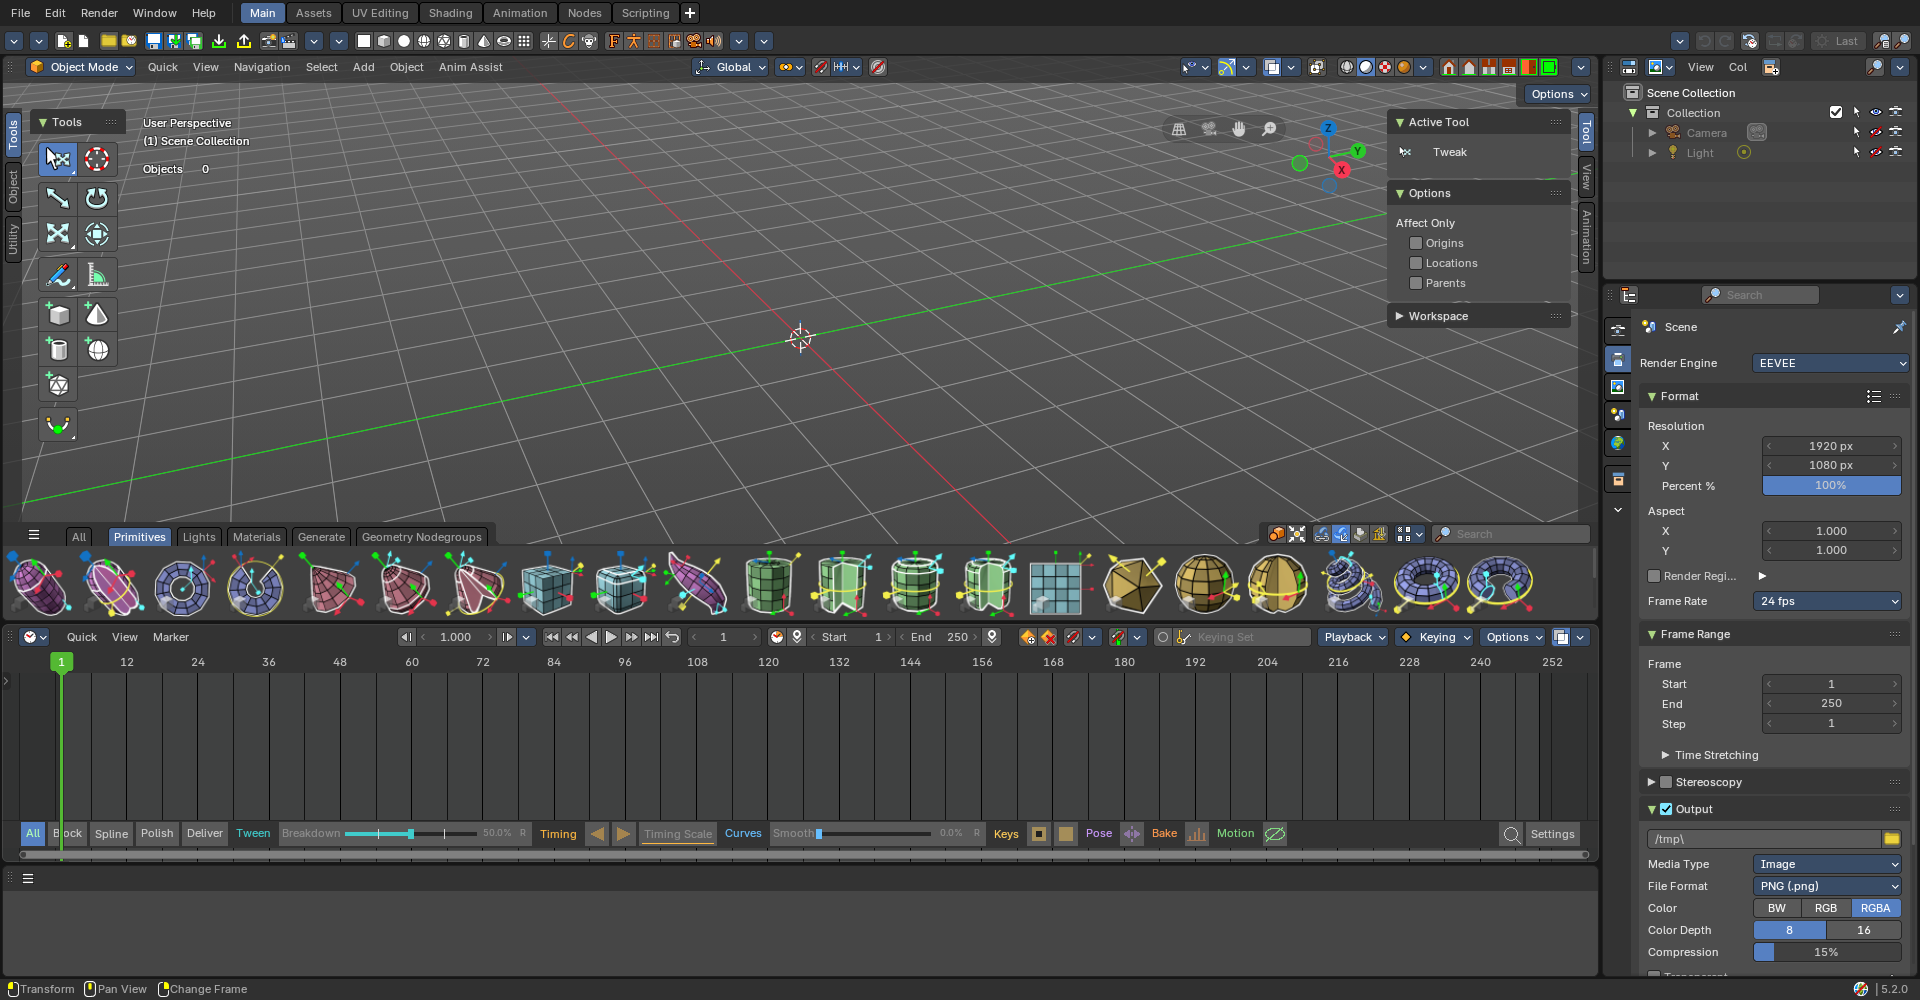
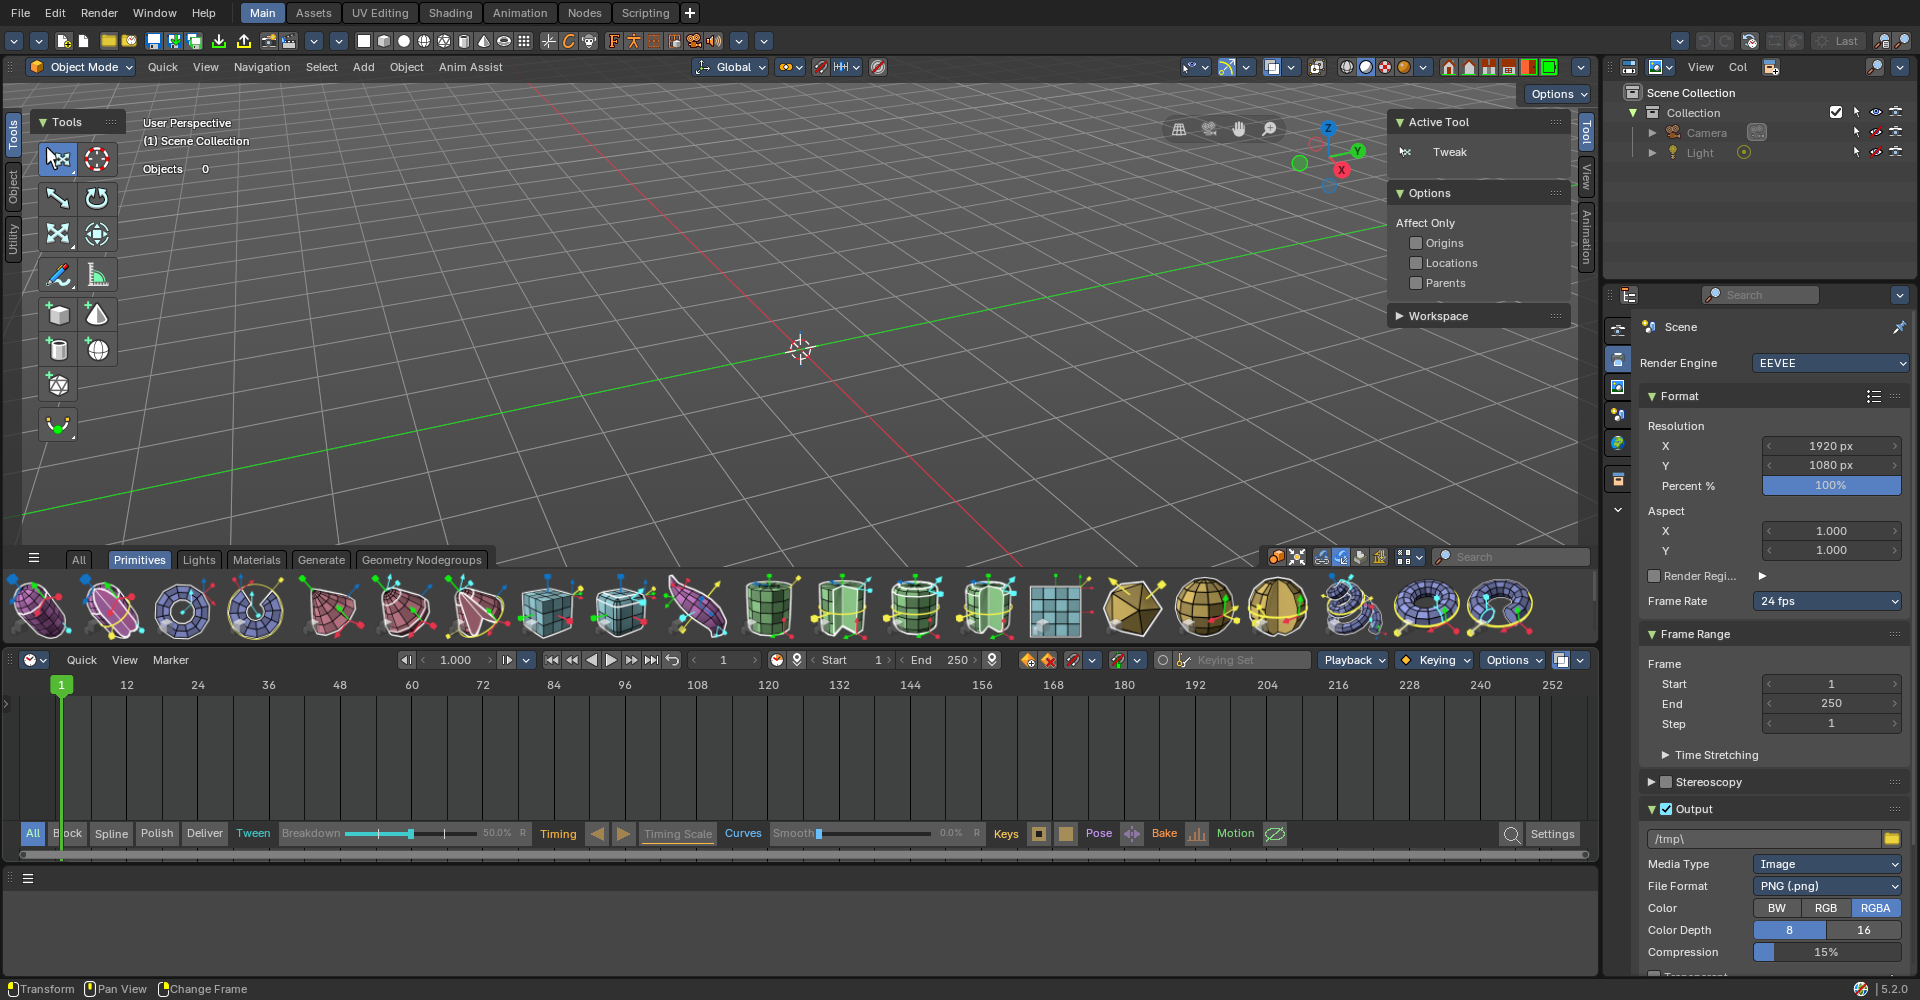
fix(anim-assist): a Find pin refreshes an open Toolbar Settings
Without it, the panel kept a stale list and its next edit undid the pin.

diff --git a/docs/anim_assist/plans/2026-10-17-stage-toolsets/settings_live_check.py b/docs/anim_assist/plans/2026-10-17-stage-toolsets/settings_live_check.py
@@ -112,6 +112,19 @@ def plan():
     yield (lambda: check("Hiding a tool updates the Timeline row while the dialog is open",
                          dialog() is not None and "RANGE" not in row_keys() and "RANGE" not in stored_block())), 0.2
 
+    def pin_from_find():
+        with bpy.context.temp_override(window=window(), area=timeline(), region=region()):
+            bpy.ops.animassist.timeline_pin(action="BAKE_STEP")
+    yield pin_from_find, 0.6
+    yield (lambda: check("A pin made in Find shows in the open Toolbar Settings",
+                         next(e for e in dialog().entries if e.action == "BAKE_STEP").mode != "HIDDEN")), 0.2
+
+    def later_edit():
+        with bpy.context.temp_override(window=window()):
+            next(e for e in dialog().entries if e.action == "GROW_BOTH").mode = "BUTTON"
+    yield later_edit, 0.6
+    yield (lambda: check("A later Toolbar Settings edit keeps the pin", "BAKE_STEP" in stored_block())), 0.2
+
     # Real input inside the panel. It opens under the pointer at the Timeline's centre, so at
     # 1920x1000 the Row dropdown is at (1300, 838) and, on the Spline row, the Timing header
     # at (946, 703) (window coordinates, origin bottom-left).

diff --git a/anim_assist/ui/timeline_strip.py b/anim_assist/ui/timeline_strip.py
@@ -404,7 +404,7 @@ class ANIMASSIST_OT_timeline_pin(bpy.types.Operator):
             return {"CANCELLED"}
         from . import timeline_config as model
         from ..prefs import timeline_record
-        from .timeline_settings import write
+        from .timeline_settings import write, editor, sync_editor
         from .timeline_overlay import current_stage
         data=timeline_record(prefs)
         stage=current_stage(context)
@@ -412,7 +412,10 @@ class ANIMASSIST_OT_timeline_pin(bpy.types.Operator):
         visible=model.stage_view(data['active'],target)[1][self.action]['mode']!='HIDDEN'
         mode='HIDDEN' if visible else ('POPOUT' if self.action in model.SLIDERS else 'BUTTON')
         model.set_stage_tool(data,target,self.action,mode=mode)
-        try: write(context,data)
+        # An open Toolbar Settings shows the pin too, so its next edit cannot undo it.
+        try:
+            if editor(context): sync_editor(context,data)
+            else: write(context,data)
         except ValueError as exc:
             self.report({'WARNING'},str(exc)); return {'CANCELLED'}
         if target=='ALL':

diff --git a/docs/anim_assist/releases/12.10.0/qualification.md b/docs/anim_assist/releases/12.10.0/qualification.md
@@ -4,14 +4,14 @@ Host: stock Bforartists 5.2.0, Blender 5.3.0 Alpha base, build `0a1ca45552db`. C
 
 ## Package
 
[2 lines of base64/hex data omitted]
 
 ## Checks on the exact ZIP contents
 
 | Check | Result |
 |---|---|
 | [toolset_check.py](../../plans/2026-10-17-stage-toolsets/toolset_check.py), background, ZIP installed as an add-on: fresh schema 2 record; Toolbar Settings Row dropdown (All, Block, Spline, Polish, Deliver) lists all 96 tools grouped by family and opens a stage's home families, writes each edit at once, Revert Changes restores the opening record; Reset Stage; Restore Recommended; Save As / Load carry stages; Find with nothing typed shows family tabs and every tool of the chosen family, typing searches every tool; Search pin in a stage, including a Bake tool pinned onto Block; Tool Settings changes stage display with shared amounts; two disable/enable cycles; Icon ignored for a tool without one; Block key types start as icons; presets edited in Block stay on Block; Presets as Ticks changed in Spline stays on Spline | 29/29 pass |
-| [settings_live_check.py](../../plans/2026-10-17-stage-toolsets/settings_live_check.py), real GUI with simulated pointer, ZIP installed: Toolbar Settings opens on the Timeline's row; hiding a tool removes it from the row and the saved record while the panel is open; choosing Spline in Row with real input switches the Timeline and the list; clicking the Timing header opens it; a Bake tool added to Spline shows on the Spline row with its Bake menu; the panel stays open while the pointer moves away; a click outside or Esc closes it and keeps the change; [Block](evidence/images/settings-row-block.png), [Spline](evidence/images/settings-row-spline.png) | 9/9 pass |
+| [settings_live_check.py](../../plans/2026-10-17-stage-toolsets/settings_live_check.py), real GUI with simulated pointer, ZIP installed: Toolbar Settings opens on the Timeline's row; hiding a tool removes it from the row and the saved record while the panel is open; a pin made in Find shows in the open panel and a later panel edit keeps it; choosing Spline in Row with real input switches the Timeline and the list; clicking the Timing header opens it; a Bake tool added to Spline shows on the Spline row with its Bake menu; the panel stays open while the pointer moves away; a click outside or Esc closes it and keeps the change; [Block](evidence/images/settings-row-block.png), [Spline](evidence/images/settings-row-spline.png) | 11/11 pass |
 | [explainers_check.py](../../plans/2026-10-17-stage-toolsets/explainers_check.py), real GUI with simulated pointer, ZIP installed: operators register with no static description and keep their Python text; Full, Short (one line, at most 120 characters, cut at a clause) and Off (name only) on a native Anim Assist button; Short Timeline tool text gives its purpose; no Shortcut line without a binding; a key bound to 25% Breakdown shows on it and not on 50%; Short and Off row hover; Bforartists keys for the same job: every equivalent names a row tool and an existing command, Copy Ctrl C (Dope Sheet, Graph Editor), Paste Ctrl V without the flipped variant, All Keys A without double-click, timing R and nudge W without the mouse drag, no line for key types, handles, interpolation or Inbetween, a key bound later to Keyframe Type shows for Mark as Keyframe only, kept in Short, dropped in Off; hovers captured in each mode on the row ([Full](evidence/images/explainer-row-full.png), [Short](evidence/images/explainer-row-short.png), [Off](evidence/images/explainer-row-off.png)) and on a header button ([Full](evidence/images/explainer-button-full.png), [Short](evidence/images/explainer-button-short.png), [Off](evidence/images/explainer-button-off.png)) | 19/19 pass |
 | [stage_check.py](../../plans/2026-10-17-stage-tabs/stage_check.py), background: stage tabs, cycle, per-workspace value, tooltips, settings stage controls, save/reopen, register cycles | 33/33 pass (includes the stage dropdown menu) |
 | [deliver_check.py](../../plans/2026-10-17-stage-toolsets/deliver_check.py), background, ZIP installed: 96 actions; Deliver defaults hold the four new tools; Breakdown presets -25/25/75/125 give the same keys as Push Prev/Pull Prev/Pull Next/Push Next (-2.5/2.5/7.5/12.5 on a 0-to-10 gap); Block shows those presets and All does not; the Trails eye shows then hides trails; the Reduce slider previews fewer keys and Esc restores all of them; Reduce preset 0.01 equals the Reduce button; the Ripple slider previews keys after the playhead moving 3 frames and Esc restores; Ripple earlier stops one frame after the playhead; Ripple preset 1 equals the Ripple button; Spline shows Curves and Motion, Deliver shows Bake; Spline starts with To Spline and ends with Show/Hide Trails; To Spline explains when no keys are selected; To Stepped and To Spline set the selected keys to Constant and Bezier; Bake Keys to Integer Frames rounds a sub-frame key; Bake Preview Range explains a missing preview range, then keys every frame 5–15; Remove All Proxy Sessions explains when there is nothing to remove, then removes a translation proxy and its constraint; One-Click Proxy & Bake keeps an object's world motion over frames 1–30 (max error 0.0; the 12.9.x operator measured 3.16 and fails this check), leaves no constraint or orphan Action, and leaves an open proxy session on another object and its helpers in place (the 12.9.x operator removed them) | 29/29 pass |

diff --git a/releases/VERSIONS.md b/releases/VERSIONS.md
@@ -4,7 +4,7 @@ Current repository packages and their publication status.
 
 | Tool | Version | Archive | Bytes | SHA256 prefix | Status |
 |---|---|---|---:|---|---|
-| Anim Assist | 12.10.0 | [b4_anim_assist_v12.10.0.zip](b4_anim_assist_v12.10.0.zip) | 645,783 | `f8f7513ad741` | Local build (not yet pushed); stage toolsets: per-stage customisable tools saved with named layouts; Spline adds To Spline and motion trails, Deliver focuses on baking (fixed One-Click Proxy & Bake); scales with presets and icons across Block, Spline and Polish; Reduce and Ripple sliders; compact rows (All included) with preset ticks; popups that stay open; row clear of the scrollbar and corners; full hover text; per-row Toolbar Settings that apply live, with any tool on any row grouped by family; Hover Explainers (Full, Short, Off) with existing Anim Assist and Bforartists keys; Find as an icon with a family browser and More only on overflow (+N) |
+| Anim Assist | 12.10.0 | [b4_anim_assist_v12.10.0.zip](b4_anim_assist_v12.10.0.zip) | 645,983 | `7193213f27b0` | Local build (not yet pushed); stage toolsets: per-stage customisable tools saved with named layouts; Spline adds To Spline and motion trails, Deliver focuses on baking (fixed One-Click Proxy & Bake); scales with presets and icons across Block, Spline and Polish; Reduce and Ripple sliders; compact rows (All included) with preset ticks; popups that stay open; row clear of the scrollbar and corners; full hover text; per-row Toolbar Settings that apply live, with any tool on any row grouped by family; Hover Explainers (Full, Short, Off) with existing Anim Assist and Bforartists keys; Find as an icon with a family browser and More only on overflow (+N) |
 | Anim Assist (historical 12.9.1) | 12.9.1 | [b4_anim_assist_v12.9.1.zip](b4_anim_assist_v12.9.1.zip) | 617,182 | `5e176eb1b7ed` | Local build (not yet pushed); stage tab fixes for the All tab, stable tabs while switching stage, cycle hover, Row Stage outside a Timeline and per-workspace stage |
 | Anim Assist (historical 12.9.0) | 12.9.0 | [b4_anim_assist_v12.9.0.zip](b4_anim_assist_v12.9.0.zip) | 616,250 | `6ce15f609ca3` | Published repository build (merge `055c2e1`, 2026-10-17); Timeline stage tabs; known stage-tab bugs listed in its qualification, fixed for 12.10.0; no standalone GitHub Release |
 | Anim Assist (historical 12.8.0) | 12.8.0 | [b4_anim_assist_v12.8.0.zip](b4_anim_assist_v12.8.0.zip) | 613,678 | `08a904c7dae1` | Earlier published repository build; editor-specific NLA/Graph/Dope Sheet sidebars; bottom-only Timeline row retained |

diff --git a/docs/anim_assist/AnimAssist_User_Manual.md b/docs/anim_assist/AnimAssist_User_Manual.md
@@ -16,7 +16,7 @@ Scene Properties > Anim Assist > Setup (once per rig) > First Run Setup creates 
 
 ## Timeline: buttons and sliders
 
-The row groups tools into **Tween, Timing, Curves, Keys, Pose, Bake and Motion**. Click an action to run it; use family menus or **Find** (the magnifier) for others. Find searches all 96 tools as you type; with nothing typed it shows family tabs to browse every tool. Click a tool to run it, or its pin to add it to the row or take it off. Tooltips explain prerequisites and scope. Action-wide offset affects more than selected-key nudging.
+The row groups tools into **Tween, Timing, Curves, Keys, Pose, Bake and Motion**. Click an action to run it; use family menus or **Find** (the magnifier) for others. Find searches all 96 tools as you type; with nothing typed it shows family tabs to browse every tool. Click a tool to run it, or its pin to add it to the row or take it off. Find and Toolbar Settings share the same layout, so a pin shows in Toolbar Settings and a Settings change shows on the pins. Tooltips explain prerequisites and scope. Action-wide offset affects more than selected-key nudging.
 
 **Recommended** starts with two inline sliders: **Breakdown**, whose track has ticks at 25%, 50% and 75% (click a tick to apply it), and **Smooth**. **Timing Scale** uses a temporary popout slider. Quick icons: -1f/+1f nudges, Copy/Paste Keys, Mirror Selected, Bake Object Transforms and Trails (the eye shows or hides world motion trails). Hover an icon for its name. In Tool Settings, **Presets as Ticks** switches any slider between ticks on its track and preset buttons, in All or in a stage.
 

diff --git a/anim_assist/CHANGELOG.md b/anim_assist/CHANGELOG.md
@@ -86,6 +86,9 @@
   do not fit, labelled with how many (for example +3), and lists just those.
   The row gains about 60 px when everything fits, so the five stage tabs
   appear from about 1,360 px (was 1,450 px).
+- Find and Toolbar Settings share one saved layout: a pin made in Find shows in
+  Toolbar Settings (even while it is open), and Settings changes light or clear
+  the pins in Find.
 - Tool Settings, Search pins and More follow the shown stage. A Search pin
   goes to the shown row, whatever the tool's family.
 - Hover Explainers (Preferences > Add-ons > Anim Assist > General): Full (the
